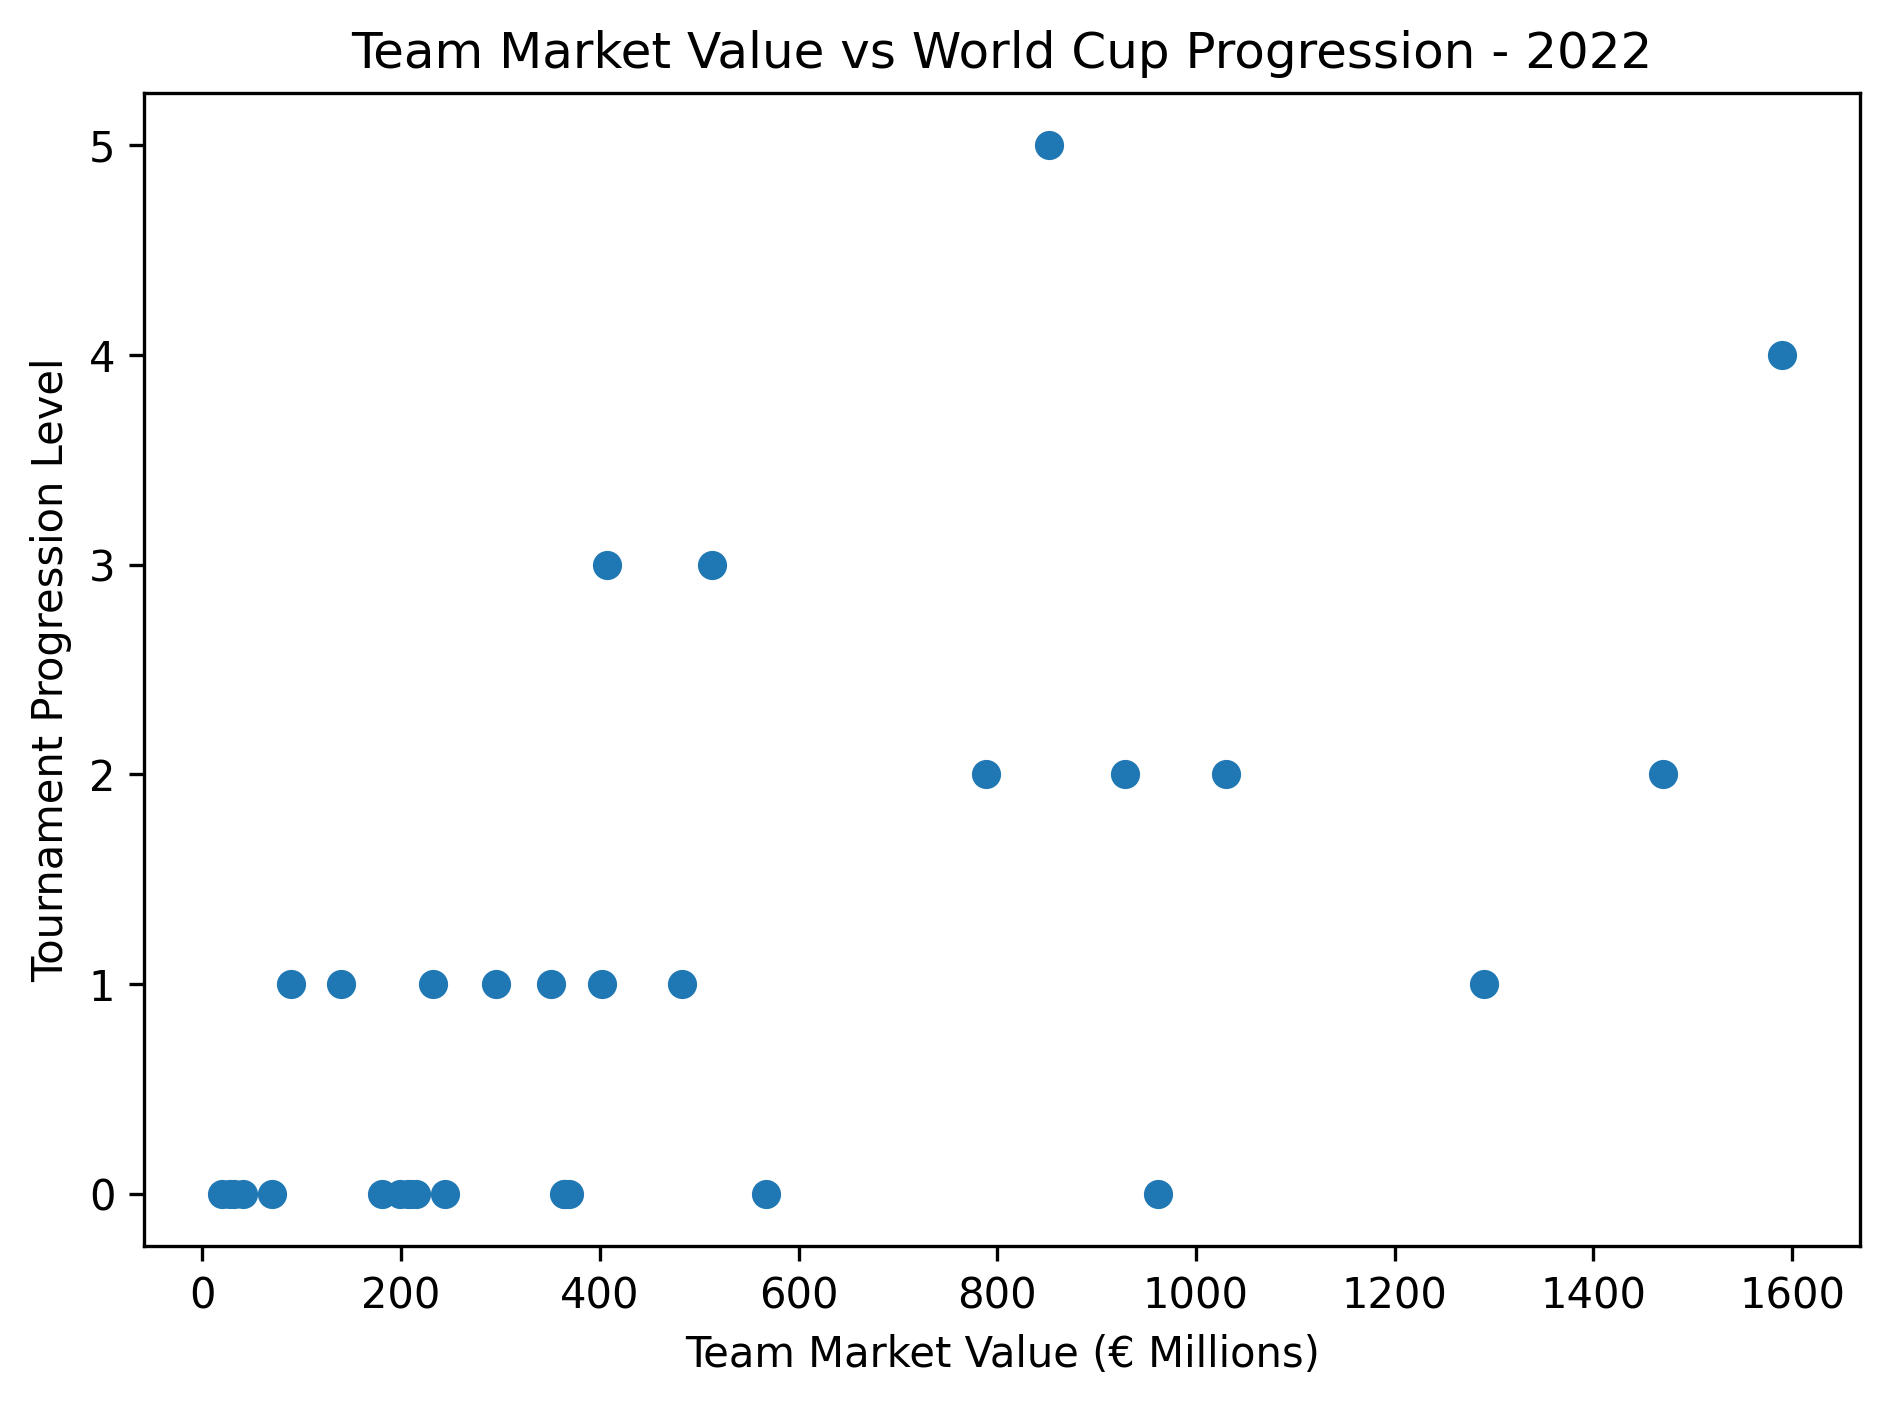
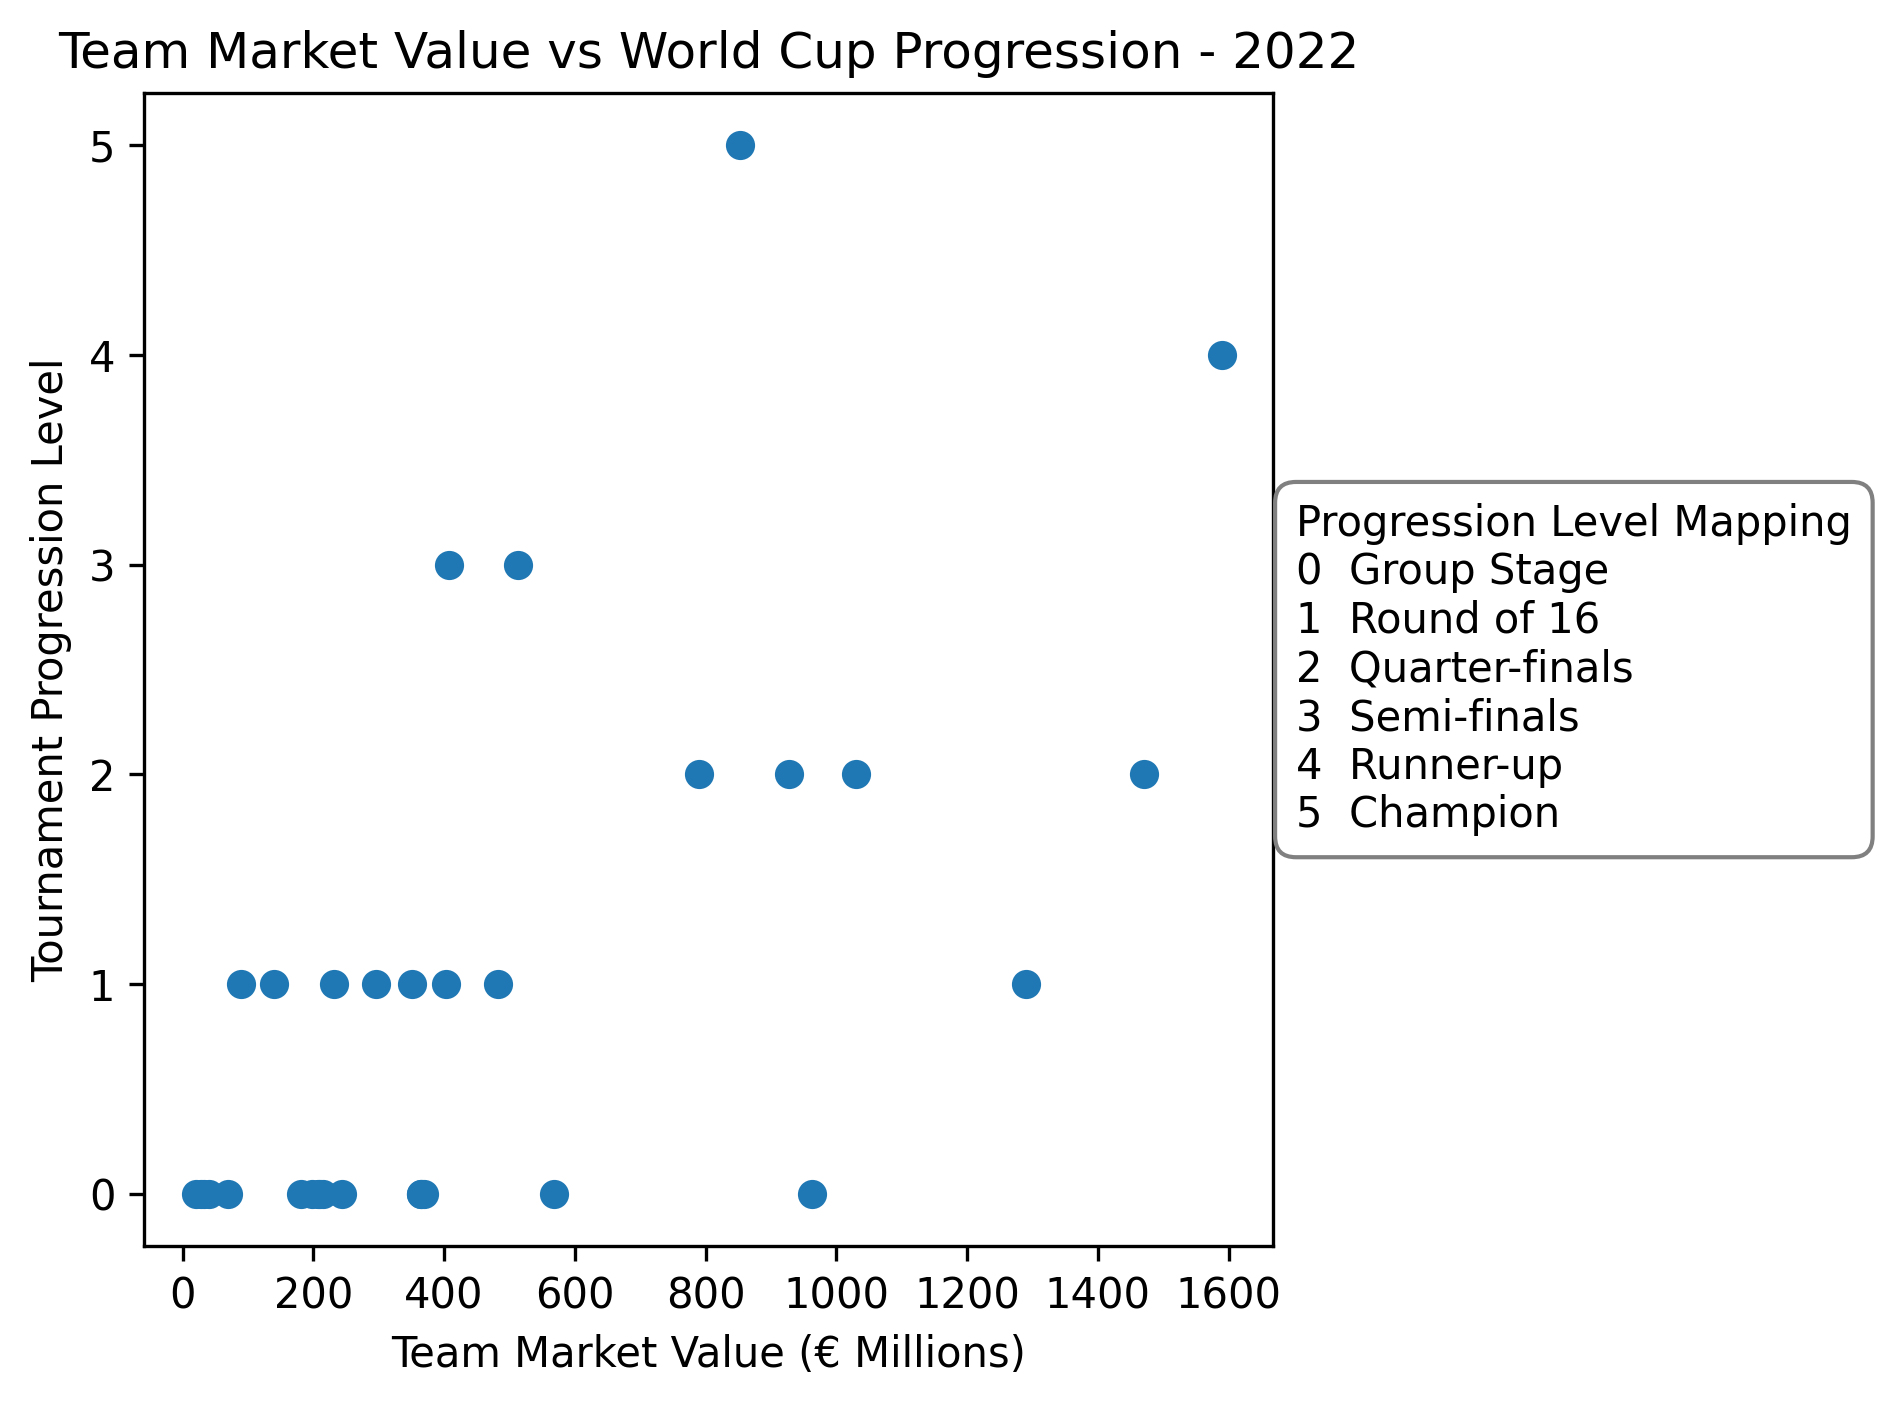
refactor: improve H2 visualization labels

diff --git a/src/hypothesis_2.py b/src/hypothesis_2.py
@@ -193,6 +193,29 @@ plt.xlabel('Team Market Value (€ Millions)')
 plt.ylabel('Tournament Progression Level')
 plt.title('Team Market Value vs World Cup Progression - 2022')
 
+progression_mapping = (
+    "Progression Level Mapping\n"
+    "0  Group Stage\n"
+    "1  Round of 16\n"
+    "2  Quarter-finals\n"
+    "3  Semi-finals\n"
+    "4  Runner-up\n"
+    "5  Champion"
+)
+
+plt.text(
+    1.02,
+    0.5,
+    progression_mapping,
+    transform=plt.gca().transAxes,
+    verticalalignment='center',
+    bbox=dict(
+        boxstyle='round,pad=0.5',
+        facecolor='white',
+        edgecolor='gray'
+    )
+)
+
 plt.tight_layout()
 
 project_root = Path(__file__).resolve().parent.parent
